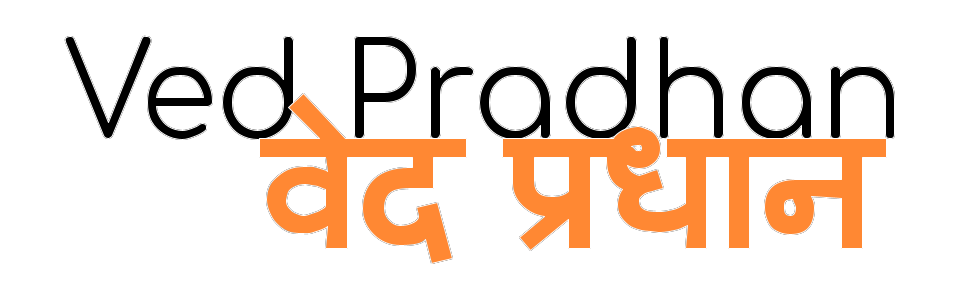
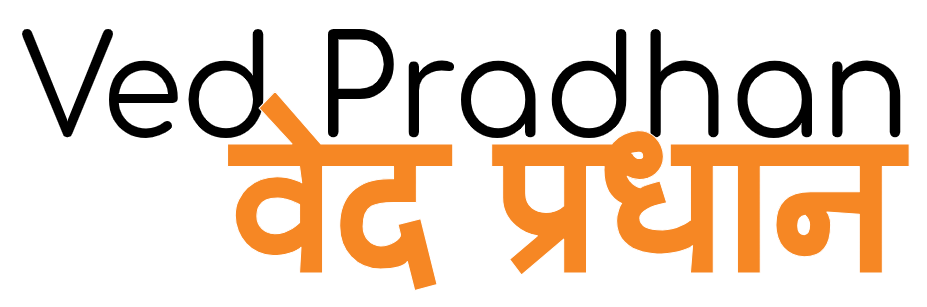
Complete title card.

Changed region(s): [[0.0, 0.09, 0.9968, 0.96]]

diff --git a/index.html b/index.html
@@ -4,10 +4,17 @@
     <meta charset="utf-8">
     <title>Ved Pradhan's Website</title>
     <link rel="stylesheet" href="css/style.css">
+    <link rel="preconnect" href="https://fonts.googleapis.com">
+    <link rel="preconnect" href="https://fonts.gstatic.com" crossorigin>
+    <link href="https://fonts.googleapis.com/css2?family=Comfortaa&family=Martian+Mono:wght@300&display=swap" rel="stylesheet">
   </head>
   <body>
     <br id="title">
     <div class="textbox">
+      <img src="img/name.png" alt="Ved Pradhan" id="name">
+      <br>
+      <p id="subtitle">CS @ UCSB '27</p>
+      <br>
       <a href="index.html#description">Next</a>
     </div>
     <br id="description">

diff --git a/css/style.css b/css/style.css
@@ -21,4 +21,16 @@ body {
   border-radius: 30px;
   padding: 20px;
   box-sizing: border-box;
+  text-align:center;
+}
+
+#name {
+  width: 60%;
+  height: auto;
+}
+
+#subtitle {
+  font-family: 'Comfortaa', sans-serif;
+  font-size: 35px;
+  margin-top: -7px;
 }
